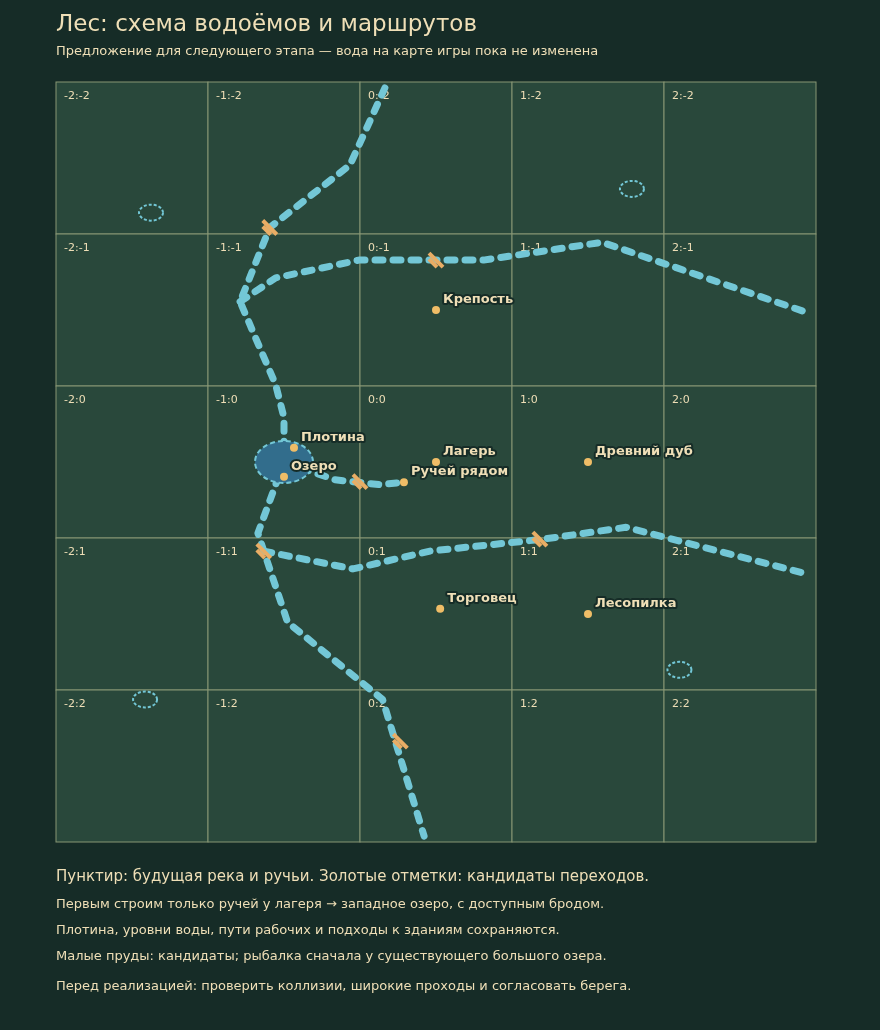
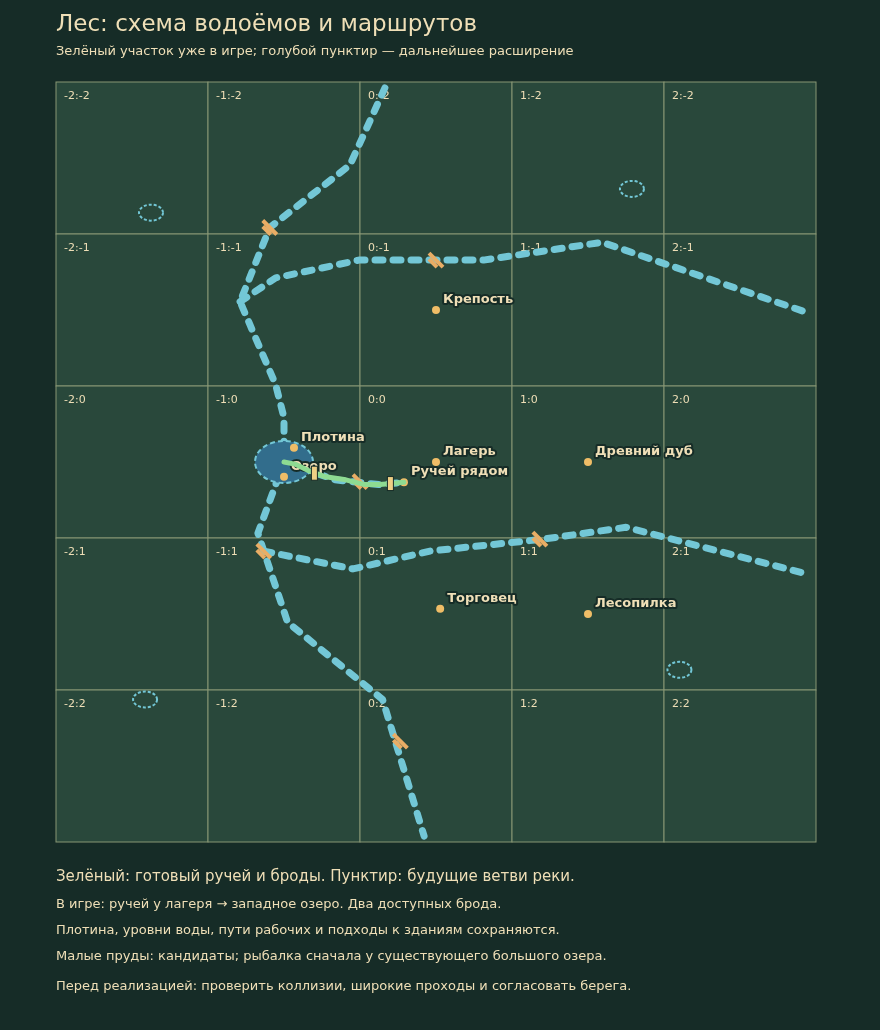
feat: connect camp stream to lake with walkable fords

diff --git a/game/camp-stream.js b/game/camp-stream.js
@@ -1,0 +1,41 @@
+import {CENTER} from "./config.js";
+import {REGION_SIZE} from "./world-grid.js";
+
+const lakeX=CENTER.x-REGION_SIZE;
+const knots=[{x:lakeX,y:1600},{x:lakeX+200,y:1640},{x:lakeX+400,y:1740},{x:-260,y:1850},
+  {x:80,y:1900},{x:400,y:1980},{x:650,y:1980},{x:860,y:1960},{x:1060,y:1940}];
+const points=[];
+// Bake one smooth centreline and outline; terrain and feet use the exact same polygon.
+for(let i=0;i<knots.length-1;i++)for(let j=0;j<8;j++){
+  const t=j/8,a=knots[Math.max(0,i-1)],b=knots[i],c=knots[i+1],d=knots[Math.min(knots.length-1,i+2)],p={};
+  for(const k of ["x","y"])p[k]=.5*((2*b[k])+(-a[k]+c[k])*t+(2*a[k]-5*b[k]+4*c[k]-d[k])*t*t+(-a[k]+3*b[k]-3*c[k]+d[k])*t*t*t);
+  points.push(p);
+}
+points.push(knots.at(-1));
+const left=[],right=[],normals=[],widths=[];
+for(let i=0;i<points.length;i++){
+  const a=points[Math.max(0,i-1)],b=points[Math.min(points.length-1,i+1)],len=Math.hypot(b.x-a.x,b.y-a.y),
+    n={x:-(b.y-a.y)/len,y:(b.x-a.x)/len},r=30+4*Math.sin(i*.23);
+  normals.push(n);widths.push(r);left.push({x:points[i].x+n.x*r,y:points[i].y+n.y*r});right.push({x:points[i].x-n.x*r,y:points[i].y-n.y*r});
+}
+const cap=(i,start)=>Array.from({length:8},(_,j)=>{const n=normals[i],a=Math.atan2(n.y,n.x)+(start?Math.PI:0)-(j+1)*Math.PI/8;
+  return {x:points[i].x+Math.cos(a)*widths[i],y:points[i].y+Math.sin(a)*widths[i]};});
+export const STREAM_OUTLINE=Object.freeze([...left,...cap(points.length-1,false),...right.reverse(),...cap(0,true)]);
+export const STREAM_CROSSINGS=Object.freeze([
+  {id:"camp-stream-ford",regionId:"0:0",x:832,y:1963,width:104,height:156},
+  {id:"lake-stream-ford",regionId:"-1:0",x:-448,y:1789,width:112,height:160},
+]);
+const bounds={left:Math.min(...STREAM_OUTLINE.map(p=>p.x)),right:Math.max(...STREAM_OUTLINE.map(p=>p.x)),top:Math.min(...STREAM_OUTLINE.map(p=>p.y)),bottom:Math.max(...STREAM_OUTLINE.map(p=>p.y))};
+export function streamWater(x,y,pad=0){
+  if(x<bounds.left-pad||x>bounds.right+pad||y<bounds.top-pad||y>bounds.bottom+pad)return false;
+  let inside=false;
+  for(let i=0,j=STREAM_OUTLINE.length-1;i<STREAM_OUTLINE.length;j=i++){
+    const a=STREAM_OUTLINE[j],b=STREAM_OUTLINE[i];
+    if((a.y>y)!==(b.y>y)&&x<(b.x-a.x)*(y-a.y)/(b.y-a.y)+a.x)inside=!inside;
+    if(pad>0){const dx=b.x-a.x,dy=b.y-a.y,t=Math.max(0,Math.min(1,((x-a.x)*dx+(y-a.y)*dy)/(dx*dx+dy*dy||1)));
+      if(Math.hypot(x-a.x-t*dx,y-a.y-t*dy)<=pad)return true;}
+  }return inside;
+}
+export const inStreamFord=(x,y,pad=0)=>STREAM_CROSSINGS.some(f=>Math.abs(x-f.x)<=f.width/2-pad&&Math.abs(y-f.y)<=f.height/2-pad);
+export const streamCollision=(x,y,r=10)=>streamWater(x,y,r)&&!inStreamFord(x,y,r);
+export const streamReserved=(x,y,pad=0)=>streamWater(x,y,pad)||STREAM_CROSSINGS.some(f=>Math.abs(x-f.x)<f.width/2+pad&&Math.abs(y-f.y)<f.height/2+pad);

diff --git a/phaser/art/ground-art.js b/phaser/art/ground-art.js
@@ -16,6 +16,7 @@ export function createForestGround({
   materials = null,
   fortressFloor = null,
   worksSurfaces = () => [],
+  streamCrossings = [],
 }) {
   const cache = new Map();
   function bake(cx, cy) {
@@ -55,16 +56,19 @@ export function createForestGround({
       g.fillStyle=area.kind==="water"?"#0000ff":area.kind==="shore"?"#00ff00":"#ff0000";
       g.fillRect(area.x,area.y,area.width,area.height);
     }
-    for (const outline of [pondOutline, streamOutline]) {
+    const outlines=[pondOutline,streamOutline].filter(o=>o?.length);
+    for (const outline of outlines) {
       g.beginPath();
       outline.forEach((p, i) => (i ? g.lineTo(p.x, p.y) : g.moveTo(p.x, p.y)));
       g.closePath();
       g.strokeStyle = "#00ff00";
       g.lineWidth = 16;
       g.stroke();
-      g.fillStyle = "#0000ff";
-      g.fill();
     }
+    // Fill the union after both bank strokes: no green seam where the stream joins the lake.
+    for(const outline of outlines){g.beginPath();outline.forEach((p,i)=>i?g.lineTo(p.x,p.y):g.moveTo(p.x,p.y));g.closePath();g.fillStyle="#0000ff";g.fill();}
+    g.save();g.beginPath();for(const outline of outlines){outline.forEach((p,i)=>i?g.lineTo(p.x,p.y):g.moveTo(p.x,p.y));g.closePath();}g.clip();
+    g.fillStyle="#0080ff";for(const f of streamCrossings)g.fillRect(f.x-f.width/2,f.y-f.height/2,f.width,f.height);g.restore();
     const source = g.getImageData(0, 0, SIZE + 8, SIZE + 8).data,
       out = bitmap.getContext("2d"),
       image = out.createImageData(SIZE, SIZE),
@@ -84,6 +88,7 @@ export function createForestGround({
         const water =
           marked && source[j + 2] > source[j] && source[j + 2] > source[j + 1];
         const bank = marked && !water && source[j + 1] > source[j];
+        const ford=water&&source[j+1]>80;
         if (materials) {
           if (marked)
             [r, gr, b] = sampleMaterial(
@@ -93,6 +98,7 @@ export function createForestGround({
               wy,
             );
           else [r, gr, b] = sampleBiomeGround(materials, wx, wy);
+          if(ford){const shore=sampleMaterial(materials,"shore",wx,wy);r=r*.55+shore[0]*.45;gr=gr*.55+shore[1]*.45;b=b*.55+shore[2]*.45;}
           // A broken pixel edge merges paths with grass without blurring the image.
           if (marked && !water && !bank) {
             const edge = [

diff --git a/game/region-world.js b/game/region-world.js
@@ -1,4 +1,5 @@
 import { CENTER } from "./config.js";
+import {STREAM_OUTLINE,STREAM_CROSSINGS,streamWater,streamCollision,streamReserved} from "./camp-stream.js";
 import { CAMP, random, pixelHash } from "../pixel-art.js";
 import { REGIONS, REGION_BOUNDS, REGION_SIZE, regionAt } from "./regions.js";
 import { FORTRESS, insideLocation } from "./locations.js";
@@ -34,7 +35,7 @@ export function createRegionWorld(regions, state = {worldWorks:initialWorldWorks
       y: pond.y + Math.sin(a) * pond.ry * f,
     };
   });
-  const streamOutline = [];
+  const streamOutline = STREAM_OUTLINE;
   for (const r of REGIONS) {
     const type =
       r.activity === "ruins"
@@ -144,13 +145,13 @@ export function createRegionWorld(regions, state = {worldWorks:initialWorldWorks
   function inWater(x, y) {
     const dx = (x - pond.x) / pond.rx,
       dy = (y - pond.y) / pond.ry;
-    return dx * dx + dy * dy < 1 || worksWater(state,x,y);
+    return dx * dx + dy * dy < 1 || streamWater(x,y) || worksWater(state,x,y);
   }
   function waterCollision(x, y, r = 10) {
     return (
       ((x - pond.x) / (pond.rx + r)) ** 2 +
         ((y - pond.y) / (pond.ry + r)) ** 2 <
-      1 || worksCollision(state,x,y,r)
+      1 || streamCollision(x,y,r) || worksCollision(state,x,y,r)
     );
   }
   function segmentDistance(p, a, b) {
@@ -172,7 +173,7 @@ export function createRegionWorld(regions, state = {worldWorks:initialWorldWorks
   }
   function reserved(x, y, r) {
     return (
-      worksReserved(x,y,75) ||
+      worksReserved(x,y,75) || streamReserved(x,y,75) ||
       locations.some(
         (l) => l.regionId === r.id && insideLocation(l, x, y, 72),
       ) ||
@@ -240,7 +241,7 @@ export function createRegionWorld(regions, state = {worldWorks:initialWorldWorks
           (l) => l.regionId === region.id && insideLocation(l, x, y, 32),
         ) ||
         waterCollision(x, y, 20) ||
-        worksReserved(x,y,20) ||
+        worksReserved(x,y,20) || streamReserved(x,y,20) ||
         nearTrail({ x, y }, 45) ||
         (region.id === "0:0" && Math.hypot(x - 1600, y - 1600) < 310)
       )
@@ -285,6 +286,7 @@ export function createRegionWorld(regions, state = {worldWorks:initialWorldWorks
     pond,
     pondOutline,
     streamOutline,
+    streamCrossings:STREAM_CROSSINGS,
     bridge: null,
     clues,
     inWater,

diff --git a/game/world-works-layout.js b/game/world-works-layout.js
@@ -21,6 +21,7 @@ export const WORKS_SITES=Object.freeze([
 ].map(p=>WORKS_PROJECTS.includes(p)?p:move(p,p.regionId)));
 export const WORKS_BASIN=Object.freeze(move({x:-1000,y:800,width:568,height:400},"-1:0"));
 const river=move({x:-432,y:656,width:224,height:784},"-1:0"),bog=move({x:1056,y:300,width:1088,height:192},"0:-1");
+const lowChannels=[{x:-352,y:656,width:64,height:576},{x:-352,y:1328,width:64,height:112}].map(r=>move(r,"-1:0"));
 export const WORKS_TERRAIN_BOUNDS=Object.freeze([river,WORKS_BASIN,bog,...WORKS_PROJECTS.filter(p=>p.deck).map(p=>p.deck)]);
 export const worksChunkAffected=(cx,cy)=>WORKS_TERRAIN_BOUNDS.some(r=>cx*256<r.x+r.width+16&&(cx+1)*256>r.x-16&&cy*256<r.y+r.height+16&&(cy+1)*256>r.y-16);
 const wall=(id,x0,y0,x1,y1,project=null)=>({id,regionId:"-1:0",a:move({x:x0,y:y0},"-1:0"),b:move({x:x1,y:y1},"-1:0"),r:12,project});
@@ -35,14 +36,14 @@ export function worksSurfaces(state){
   const d=state.worldWorks,low=d.level==="low";
   return [
     {...river,kind:"shore"},{...WORKS_BASIN,kind:"shore"},{...bog,kind:"water"},
-    ...(low?[{x:-352,y:656,width:64,height:576,kind:"water"},{x:-352,y:1328,width:64,height:112,kind:"water"}]:[{...river,kind:"water"},{...WORKS_BASIN,kind:"water"}]),
+    ...(low?lowChannels.map(r=>({...r,kind:"water"})):[{...river,kind:"water"},{...WORKS_BASIN,kind:"water"}]),
     ...WORKS_PROJECTS.filter(p=>p.deck&&d.built[p.id]).map(p=>({...p.deck,kind:"deck"})),
   ];
 }
 export function worksWater(state,x,y,r=0){
   const low=state.worldWorks.level==="low";
   return inRect(bog,x,y,r)||(!low&&(inRect(river,x,y,r)||inRect(WORKS_BASIN,x,y,r)))||
-    (low&&(inRect(move({x:-352,y:656,width:64,height:576},"-1:0"),x,y,r)||inRect(move({x:-352,y:1328,width:64,height:112},"-1:0"),x,y,r)));
+    (low&&lowChannels.some(c=>inRect(c,x,y,r)));
 }
 export function worksCollision(state,x,y,r=10){
   if(!worksWater(state,x,y,r))return false;

diff --git a/phaser/region-view.js b/phaser/region-view.js
@@ -26,6 +26,9 @@ export class RegionView {
     for (const prop of w.biomeDetails.get(region.id) || [])
       image(prop.natural?`details.${prop.kind}.${prop.variant}`:`habitat.${prop.kind}`, prop.x, prop.y, prop.ground ? LAYERS.ground + 12 : prop.y)
         .setData("biomeDetail", prop.kind);
+    for(const ford of (w.streamCrossings||[]).filter(f=>f.regionId===region.id)){
+      for(const dy of [-22,0,22])image("details.rock.0",ford.x,ford.y+dy,ford.y+dy).setScale(.8).setData("streamFord",ford.id);
+    }
     for (const [index, p] of (w.decorBins.get(region.id) || []).entries())
       if (index % 3 === 0)
         image(`biomeprop.${region.biome}`, p.x, p.y).setScale(

diff --git a/tests/camp_stream_smoke.py b/tests/camp_stream_smoke.py
@@ -1,0 +1,46 @@
+"""Only new stream/ford terrain, real keyboard/touch crossing, cart cargo and old low water."""
+from functools import partial
+from http.server import ThreadingHTTPServer,SimpleHTTPRequestHandler
+from pathlib import Path
+from threading import Thread
+from shutil import which
+from playwright.sync_api import sync_playwright
+from helpers.browser_start import choose_hero
+ROOT=Path(__file__).resolve().parents[1]
+class Handler(SimpleHTTPRequestHandler):
+    def log_message(self,*args):pass
+server=ThreadingHTTPServer(('127.0.0.1',0),partial(Handler,directory=str(ROOT)))
+Thread(target=server.serve_forever,daemon=True).start()
+try:
+    with sync_playwright() as p:
+        for mobile in ([True] if "--mobile-only" in __import__("sys").argv else [False,True]):
+            browser=p.chromium.launch(headless=True,executable_path=which('chromium'),args=['--no-sandbox']+(['--disable-webgl'] if mobile else ['--use-angle=swiftshader','--enable-unsafe-swiftshader']))
+            q=browser.new_page(viewport={'width':390 if mobile else 1360,'height':844 if mobile else 1050},is_mobile=mobile,has_touch=mobile);errors=[]
+            q.on('pageerror',lambda e:errors.append(str(e)))
+            q.goto(f'http://127.0.0.1:{server.server_port}/'+('dist/' if mobile else ''))
+            q.wait_for_selector('#heroDialog[open]');q.locator(f'[name=players][value="{1 if mobile else 2}"]').check();choose_hero(q)
+            q.evaluate('''window.g=lumberPhaser;window.w=g.scene;window.m=g.core;window.a=m.actors?.[0]||m;w.manual=true;
+              for(const a of m.actors||[m])Object.assign(a.player,{x:832,y:1890,path:[],autoTimer:10000});
+              const r=m.regions.all.find(r=>r.id==='-1:0');m.regions.unlocked.add(r.id);m.state.unlockedRegions.push(r.id);m.world.generate(r);for(const a of m.actors||[m])a.refreshWorld();
+              m.state.sawmill.cart.built=true;Object.assign(m.state.sawmill.cart,{x:832,y:1890,logs:[7,12]});a.sawmill.freight.attach();g.step(0);
+              window.rgb=(x,y)=>{const cx=Math.floor(x/256),cy=Math.floor(y/256),im=w.terrain.source.getChunk(cx,cy);return [...im.getContext('2d').getImageData(Math.floor((x-cx*256)/2),Math.floor((y-cy*256)/2),1,1).data].slice(0,3);};
+              window.water=(x,y)=>{const pack=w.registry.get('biomePack').materials.water,i=(((Math.floor(y/2)%64+64)%64)*64+(Math.floor(x/2)%64+64)%64)*4;return [...pack.slice(i,i+3)];};''')
+            assert q.evaluate('JSON.stringify(rgb(650,1980))===JSON.stringify(water(650,1980))&&!a.nav.isWalkable(650,1980)')
+            assert q.evaluate('JSON.stringify(rgb(832,1963))!==JSON.stringify(water(832,1963))&&a.nav.isWalkable(832,1963)')
+            assert q.evaluate('[...w.regionView.objects.values()].flat().some(i=>i.getData("streamFord")==="camp-stream-ford")')
+            if mobile:q.evaluate("w.camera.stopFollow();w.camera.centerOn(832,1963);w.camera.preRender();g.step(0)")
+            q.wait_for_timeout(650)
+            if mobile:
+                point=q.evaluate('(()=>{const c=w.camera;return{x:(832-c.worldView.x)*c.zoom,y:(2035-c.worldView.y)*c.zoom,width:w.scale.width,height:w.scale.height}})()')
+                box=q.locator('canvas').first.bounding_box();q.touchscreen.tap(box['x']+point['x']*box['width']/point['width'],box['y']+point['y']*box['height']/point['height']);q.evaluate('g.step(2)')
+            else:
+                q.keyboard.down('s');q.evaluate('g.step(1)');q.keyboard.up('s')
+            assert q.evaluate('a.player.y>2030&&m.state.sawmill.cart.logs.join()==="7,12"&&Math.abs(m.state.sawmill.cart.y-a.player.y)<.1'),q.evaluate('({player:a.player,cart:m.state.sawmill.cart,notice:m.notice})')
+            q.locator('#game-frame').screenshot(path=str(ROOT/f'docs/camp-stream-{"mobile" if mobile else "coop"}.png'))
+            # Paint and collision must agree after the old dam changes level as well.
+            q.evaluate('m.state.worldWorks.level="low";m.state.worldWorks.revision++;g.step(0)')
+            assert q.evaluate('JSON.stringify(rgb(-960,900))===JSON.stringify(water(-960,900))&&m.world.inWater(-960,900)')
+            assert q.evaluate('w.terrain.images.size<=(m.coop?40:24)&&w.terrain.source.cachedChunks<=w.terrain.source.maxChunks+20')
+            assert not errors,errors
+            print('PASS stream/ford pixels, real crossing, cart and low-water geometry',mobile,flush=True);browser.close()
+finally:server.shutdown()

diff --git a/docs/FOREST-WATER-PLAN.md b/docs/FOREST-WATER-PLAN.md
@@ -1,8 +1,16 @@
 # Первый шаг: лес и водная структура
 
-Это схема для следующей реализации, не новая геометрия воды в игре. [Посмотреть PNG](forest-water-plan.png) · [SVG](forest-water-plan.svg). Все 25 квадратов и действующие ориентиры показаны в мировых координатах. Берега и новые игровые текстуры требуют отдельного согласования.
+Первая часть схемы уже реализована: ручей у лагеря соединён с существующим западным озером. Дальняя основная река, остальные ветви и малые пруды остаются планом. [Посмотреть PNG](forest-water-plan.png) · [SVG](forest-water-plan.svg). Все 25 квадратов и действующие ориентиры показаны в мировых координатах. Берега и новые игровые текстуры требуют отдельного согласования.
 
 ## Уже изменено в игре
+
+- Ручей от озера около `(-960,1600)` к ключу около `(1060,1940)`: плавный берег, ширина примерно 52–68 мировых единиц, единый контур для изображения и коллизий. Озеро и прежняя рыбалка сохраняются.
+- Два бесплатных брода: `(832,1963)` рядом с лагерем и `(-448,1789)` на западной части ручья. Светлая мелкая вода и существующие PNG камней обозначают переход. Броды проходимы для обоих героев, покупателей, работников и тележки; глубокая вода обходится.
+- Генерация оставляет воду и подходы свободными от деревьев, валунов и мелких объектов. Дороги лагеря, пограничная оплата региона и северные гидротехнические постройки не перенесены.
+- Исправлена отрисовка узких каналов низкого уровня у плотины: используются те же смещённые прямоугольники, что в физической модели.
+
+[Ручей вдвоём](camp-stream-coop.png) · [на телефоне](camp-stream-mobile.png).
+
 
 - В процедурном лесном декоре больше нет повторяющихся `lostSatchel`, `forestTracks` и `clawMarks`: вместо них используются существующие папоротники, цветы и грибы. В болотном декоре убраны повторные затонувшие фонари, остаются корни и грибы.
 - Количество деталей ограничено прежним лимитом, правила свободных троп и расстояний между композициями сохраняются.
@@ -19,14 +27,20 @@
 | Большое озеро | В существующем рыболовном регионе `-1:0`, с расширенными берегами, камышом и несколькими подходами; не создаёт вторую независимую рыбалку поверх нынешней |
 | Малые пруды | Кандидаты в `-2:-1`, `1:-2`, `2:2`, `-2:2`; сначала оформление, без обещания интерактивной рыбалки в каждом |
 
-Река на рисунке схематична; толщины не задают будущие хитбоксы. Отметки переходов — кандидаты, а не уже построенные мосты. Перед изменением воды проверить пересечения с дорогами, структурами и локальными точками интереса.
+Река на рисунке схематична; толщины не задают будущие хитбоксы. Зелёный участок и два брода уже в игре. Золотые отметки дальних переходов — кандидаты. Перед изменением воды проверить пересечения с дорогами, структурами и локальными точками интереса.
 
-## Как внедрять следующим этапом
+## Порядок внедрения и оставшиеся шаги
 
-1. Сначала только ручей у лагеря → существующее западное озеро. Общая модель берега для изображения, воды и коллизий, без физической симуляции жидкости.
-2. Предусмотреть доступный переход и широкий обход. Проверить выход из стартового квадрата, покупателей, доставку тележкой, оператора и оба комплекта управления.
-3. Согласовать новую геометрию с плотиной/высоким и низким уровнем воды, бродом и гидростанцией. Отдельно сверить отрисовку узких каналов низкого уровня с их фактическими коллизиями.
+1. Выполнено: первый ручей у лагеря → существующее западное озеро. Общая модель берега для изображения, воды и коллизий, без физической симуляции жидкости.
+2. Выполнено: предусмотрены два перехода и обход. Проверены выход из стартового квадрата, покупателей, доставку тележкой, оператора и оба комплекта управления.
+3. Для первого участка проверена совместимость с плотиной и рыбалкой; исправлено совпадение отрисовки узких каналов низкого уровня с коллизиями. При дальнейших ветвях повторно проверять только затронутые узлы.
 4. Только после проверки маршрутов распространять реку по северной/южной схеме. При открытии региона не менять внезапно уже пройденный берег.
 5. Затем согласовать набор берегов/растений и добавить ягодные кусты. Они, новые грибы и плавные материалы земли относятся к следующим шагам; новых несогласованных игровых ассетов в этом обновлении нет.
 
 Текущие проверки очистки леса: `tests/lantern-cone.test.mjs` (все регионы), `tests/biome-atmosphere.test.mjs`, `tests/regions.test.mjs`. Этот план сам по себе не требует запуска всей игры или изменения стоимости регионов.
+
+## Реализация и целевые проверки ручья
+
+`game/camp-stream.js` один раз строит контур и хранит броды; `game/region-world.js` использует его для воды/резервирования генерации. `phaser/art/ground-art.js` рисует тот же контур существующим материалом воды, объединяя берег озера и ручья без внутреннего шва. Осветление брода ограничено настоящим водным контуром. `phaser/region-view.js` размещает существующие камни переходов. Новые игровые текстуры и физическая симуляция жидкости не добавлены; кеши земли сохраняют прежние лимиты.
+
+Модель: `node --test tests/camp-stream.test.mjs tests/regions.test.mjs tests/world-works.test.mjs tests/exploration.test.mjs tests/workers.test.mjs tests/worker-jobs.test.mjs tests/sawmill-production.test.mjs tests/first_days.test.mjs tests/combat-loot.test.mjs tests/local-coop.test.mjs tests/biome-atmosphere.test.mjs`. После сборки: `python tests/camp_stream_smoke.py` (или `--mobile-only`). Проверяются пиксели воды/брода и их совпадение с проходимостью, настоящий переход WASD/тачем с грузом тележки, низкая вода плотины и лимиты кешей. FPS настоящих устройств не измерялся.

diff --git a/docs/ROADMAP.md b/docs/ROADMAP.md
@@ -15,7 +15,7 @@
 
 ## Первый шаг нового плана
 
-Подготовлена [схема реки, озера и переходов](FOREST-WATER-PLAN.md). Это проектирование: новые водные коллизии и берега пока не подключены. Повторяющиеся неинтерактивные сумки, следы и фонари в генерации леса/болота заменены существующими растительными деталями; настоящие сюжетные улики сохранены. Отдельно фонарь переведён на направленный луч: [текущий свет](NIGHT-HORROR.md).
+Подготовлена [схема реки, озера и переходов](FOREST-WATER-PLAN.md). Первый участок уже подключён: ручей от лагеря к существующему западному озеру, два бесплатных брода и согласованная геометрия воды/коллизий. Дальние ветви пока остаются планом. Повторяющиеся неинтерактивные сумки, следы и фонари в генерации леса/болота заменены существующими растительными деталями; настоящие сюжетные улики сохранены. Отдельно фонарь переведён на направленный луч: [текущий свет](NIGHT-HORROR.md).
 
 ## Следующие задачи
 

diff --git a/docs/PROJECT-MAP.md b/docs/PROJECT-MAP.md
@@ -45,7 +45,7 @@
 
 Площадка костра: `CAMP_SERVICE.fuelPad`, `updateFuelPad()` в `game/camp-services.js`; вызов для каждого героя — `game/simulation.js`; вид — `phaser/camp-services-view.js`. Проверки: [CAMP-PROGRESSION.md](CAMP-PROGRESSION.md). Масштаб Смотрителя — `phaser/enemy-view.js`, браузер — `tests/watcher_smoke.py --scale-only`.
 
-Направленный фонарь: `game/light-shapes.js` — форма/проверка освещённости, `phaser/lantern-stamps.js` — пять заранее подготовленных масок; проверки — [NIGHT-HORROR.md](NIGHT-HORROR.md). План водоёмов, ещё без изменений коллизий: [FOREST-WATER-PLAN.md](FOREST-WATER-PLAN.md).
+Направленный фонарь: `game/light-shapes.js` — форма/проверка освещённости, `phaser/lantern-stamps.js` — пять заранее подготовленных масок; проверки — [NIGHT-HORROR.md](NIGHT-HORROR.md). Ручей/броды: `game/camp-stream.js`, общие контуры в `game/region-world.js` и `phaser/art/ground-art.js`. Состояние водного плана и целевые проверки: [FOREST-WATER-PLAN.md](FOREST-WATER-PLAN.md).
 
 ## Команды по необходимости
 
